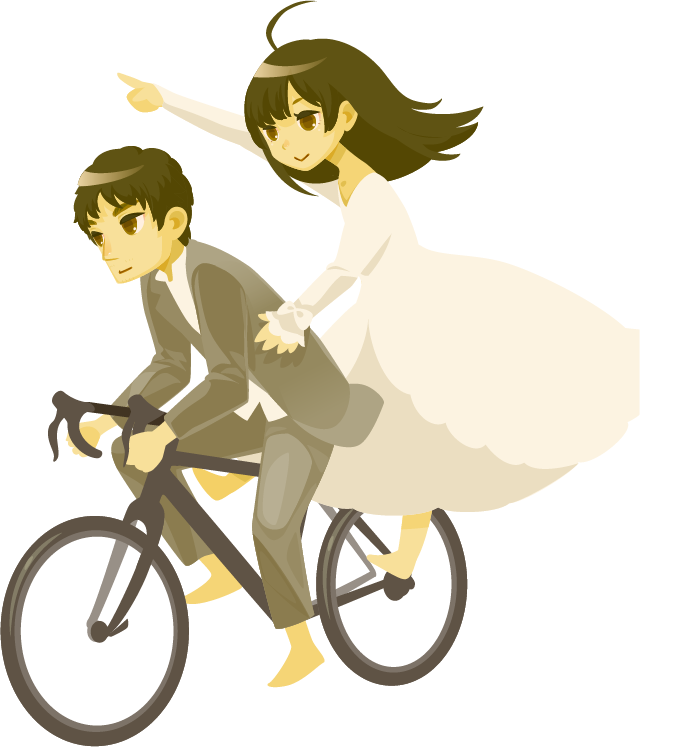
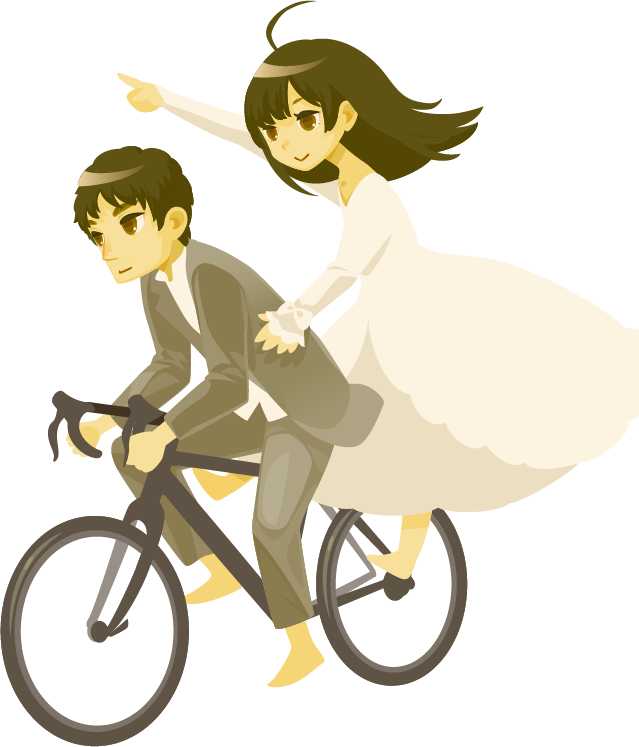
画像を中心に置く挑戦その3

Changed region(s): [[0.0, 0.0, 1.0, 1.0], [0.2379, 0.1847, 0.2676, 0.2155]]

diff --git a/static/js/view.js b/static/js/view.js
@@ -31,8 +31,10 @@ function onResize(e) {
 function onImgLoad(e) {
 	// 画像をステージに追加
 	backBmp = new createjs.Bitmap(e.target);
-	backBmp.reqX = backBmp.width/2;
-	backBmp.retY = backBmp.height/2;
+	backBmp.regX = backBmp.image.width/2;
+	backBmp.regY = backBmp.image.height/2;
+	backBmp.x = window.innerWidth/2;
+	backBmp.y = window.innerHeight/2;
 	var ratio = window.innerWidth / backBmp.image.width;
 	backBmp.scaleX = ratio;
 	backBmp.scaleY = ratio;
